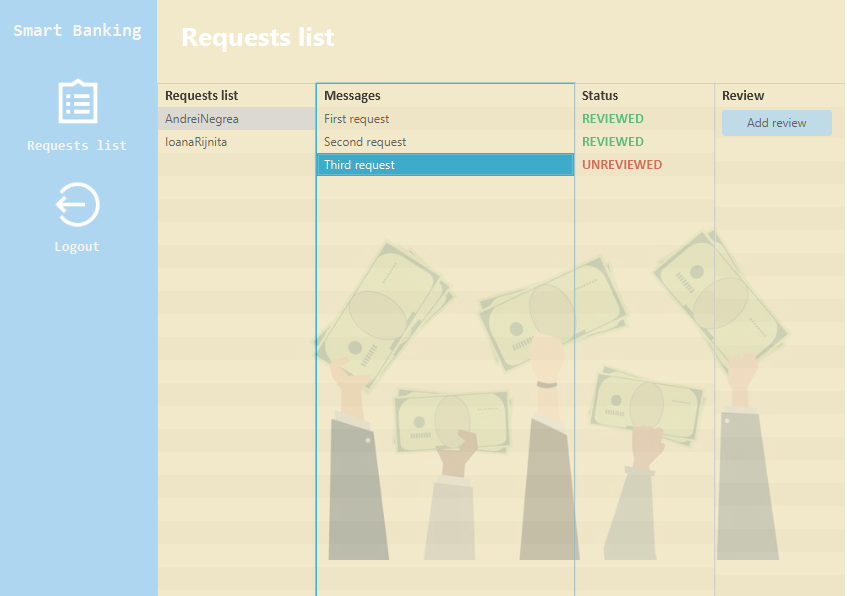
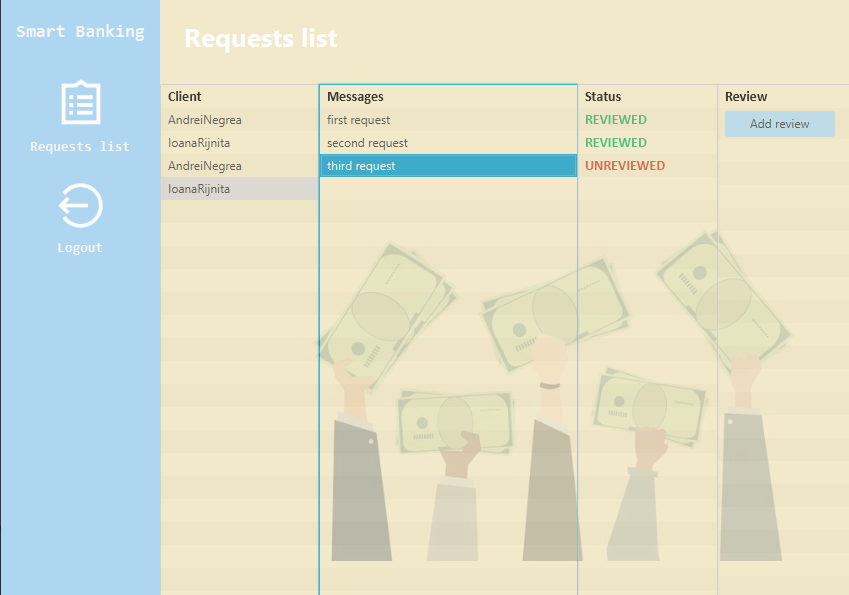
minor text changes & images for readme file/SB-31

diff --git a/src/main/java/smart/banking/controllers/ListofBankRequestsController.java b/src/main/java/smart/banking/controllers/ListofBankRequestsController.java
@@ -80,85 +80,85 @@ public class ListofBankRequestsController {
     }
 
     public void showMessagesStatusesAndReviews() {
-            messageS= "Messages";
-            statusS = "Status";
-            reviewS = "Review";
+        messageS= "Messages";
+        statusS = "Status";
+        reviewS = "Review";
 
-            Text text = new Text(30,80,messageS);
-            Font newFont = Font.font("Calibri", FontWeight.BOLD, FontPosture.REGULAR,14);
-            text.setFill(Color.valueOf("#000000"));
-            text.setFont(newFont);
-            Text text1 = new Text(30,80, statusS);
-            Font newFont1 = Font.font("Calibri", FontWeight.BOLD, FontPosture.REGULAR,14);
-            text1.setFill(Color.valueOf("#000000"));
-            text1.setFont(newFont1);
-            Text text2 = new Text(30,80, reviewS);
-            Font newFont2 = Font.font("Calibri", FontWeight.BOLD, FontPosture.REGULAR,14);
-            text2.setFill(Color.valueOf("#000000"));
-            text2.setFont(newFont2);
-            messages.getItems().clear();
-            statusList.getItems().clear();
-            reviewList.getItems().clear();
-            messages.getItems().add(text);
-            statusList.getItems().add(text1);
-            reviewList.getItems().add(text2);
+        Text text = new Text(30,80,messageS);
+        Font newFont = Font.font("Calibri", FontWeight.BOLD, FontPosture.REGULAR,14);
+        text.setFill(Color.valueOf("#000000"));
+        text.setFont(newFont);
+        Text text1 = new Text(30,80, statusS);
+        Font newFont1 = Font.font("Calibri", FontWeight.BOLD, FontPosture.REGULAR,14);
+        text1.setFill(Color.valueOf("#000000"));
+        text1.setFont(newFont1);
+        Text text2 = new Text(30,80, reviewS);
+        Font newFont2 = Font.font("Calibri", FontWeight.BOLD, FontPosture.REGULAR,14);
+        text2.setFill(Color.valueOf("#000000"));
+        text2.setFont(newFont2);
+        messages.getItems().clear();
+        statusList.getItems().clear();
+        reviewList.getItems().clear();
+        messages.getItems().add(text);
+        statusList.getItems().add(text1);
+        reviewList.getItems().add(text2);
 
-                for (int i = 0; i < BankRepresentativeService.getClientsContor(LoginController.bankRepresentative); i++) {
-                    if (BankRepresentativeService.getBankRepresentative(LoginController.bankRepresentative).getClients()[i] == clientList.getSelectionModel().getSelectedItem()) {
-                        for (int j = 0; j < ClientService.getContorClient(); j++) {
-                            messages.getItems().clear();
-                            messages.getItems().add(text);
-                            statusList.getItems().clear();
-                            statusList.getItems().add(text1);
-                            reviewList.getItems().clear();
-                            reviewList.getItems().add(text2);
-                            for (int k = 0; k < ClientService.getClient(clientList.getSelectionModel().getSelectedItem().toString()).getContor(); k++) {
-                                if (ClientService.getClient(clientList.getSelectionModel().getSelectedItem().toString()).getMessages()[k] == null || ClientService.getClient(clientList.getSelectionModel().getSelectedItem().toString()).getMessages()[k].isEmpty()) {
-                                    messages.getItems().add("Empty request");
-                                } else {
-                                    messages.getItems().add(ClientService.getClient(clientList.getSelectionModel().getSelectedItem().toString()).getMessages()[k]);
-                                }
-                            }
-                            for (int l = 0; l < ClientService.getClient(clientList.getSelectionModel().getSelectedItem().toString()).getStatusContor(); l++) {
-                                if (ClientService.getClient(clientList.getSelectionModel().getSelectedItem().toString()).getStatusReview()[l] == null) {
-                                    String statuses = "UNREVIEWED";
-                                    Text text3 = new Text(30,80, statuses);
-                                    Font newFont3 = Font.font("Calibri", FontWeight.BOLD, FontPosture.REGULAR,14);
-                                    text3.setFill(Color.valueOf("#CB4335"));
-                                    text3.setFont(newFont3);
-                                    statusList.getItems().add(text3);
-                                } else if (ClientService.getClient(clientList.getSelectionModel().getSelectedItem().toString()).getStatusReview()[l].equals("Accepted")) {
-                                    String statuses = "REVIEWED";
-                                    Text text3 = new Text(30,80, statuses);
-                                    Font newFont3 = Font.font("Calibri", FontWeight.BOLD, FontPosture.REGULAR,14);
-                                    text3.setFill(Color.valueOf("#27AE60"));
-                                    text3.setFont(newFont3);
-                                    statusList.getItems().add(text3);
-                                } else if (ClientService.getClient(clientList.getSelectionModel().getSelectedItem().toString()).getStatusReview()[l].equals("Rejected")) {
-                                    String statuses = "REVIEWED";
-                                    Text text3 = new Text(30,80, statuses);
-                                    Font newFont3 = Font.font("Calibri", FontWeight.BOLD, FontPosture.REGULAR,14);
-                                    text3.setFill(Color.valueOf("#27AE60"));
-                                    text3.setFont(newFont3);
-                                    statusList.getItems().add(text3);
-                                } else {
-                                    String statuses = "UNREVIEWED";
-                                    Text text3 = new Text(30,80, statuses);
-                                    Font newFont3 = Font.font("Calibri", FontWeight.BOLD, FontPosture.REGULAR,14);
-                                    text3.setFill(Color.valueOf("#27AE60"));
-                                    text3.setFont(newFont3);
-                                    statusList.getItems().add(text3);
+        for (int i = 0; i < BankRepresentativeService.getClientsContor(LoginController.bankRepresentative); i++) {
+            if (BankRepresentativeService.getBankRepresentative(LoginController.bankRepresentative).getClients()[i] == clientList.getSelectionModel().getSelectedItem()) {
+                for (int j = 0; j < ClientService.getContorClient(); j++) {
+                    messages.getItems().clear();
+                    messages.getItems().add(text);
+                    statusList.getItems().clear();
+                    statusList.getItems().add(text1);
+                    reviewList.getItems().clear();
+                    reviewList.getItems().add(text2);
+                    for (int k = 0; k < ClientService.getClient(clientList.getSelectionModel().getSelectedItem().toString()).getContor(); k++) {
+                        if (ClientService.getClient(clientList.getSelectionModel().getSelectedItem().toString()).getMessages()[k] == null || ClientService.getClient(clientList.getSelectionModel().getSelectedItem().toString()).getMessages()[k].isEmpty()) {
+                            messages.getItems().add("Empty request");
+                        } else {
+                            messages.getItems().add(ClientService.getClient(clientList.getSelectionModel().getSelectedItem().toString()).getMessages()[k]);
+                        }
+                    }
+                    for (int l = 0; l < ClientService.getClient(clientList.getSelectionModel().getSelectedItem().toString()).getStatusContor(); l++) {
+                        if (ClientService.getClient(clientList.getSelectionModel().getSelectedItem().toString()).getStatusReview()[l] == null) {
+                            String statuses = "UNREVIEWED";
+                            Text text3 = new Text(30,80, statuses);
+                            Font newFont3 = Font.font("Calibri", FontWeight.BOLD, FontPosture.REGULAR,14);
+                            text3.setFill(Color.valueOf("#CB4335"));
+                            text3.setFont(newFont3);
+                            statusList.getItems().add(text3);
+                        } else if (ClientService.getClient(clientList.getSelectionModel().getSelectedItem().toString()).getStatusReview()[l].equals("Accepted")) {
+                            String statuses = "REVIEWED";
+                            Text text3 = new Text(30,80, statuses);
+                            Font newFont3 = Font.font("Calibri", FontWeight.BOLD, FontPosture.REGULAR,14);
+                            text3.setFill(Color.valueOf("#27AE60"));
+                            text3.setFont(newFont3);
+                            statusList.getItems().add(text3);
+                        } else if (ClientService.getClient(clientList.getSelectionModel().getSelectedItem().toString()).getStatusReview()[l].equals("Rejected")) {
+                            String statuses = "REVIEWED";
+                            Text text3 = new Text(30,80, statuses);
+                            Font newFont3 = Font.font("Calibri", FontWeight.BOLD, FontPosture.REGULAR,14);
+                            text3.setFill(Color.valueOf("#27AE60"));
+                            text3.setFont(newFont3);
+                            statusList.getItems().add(text3);
+                        } else {
+                            String statuses = "UNREVIEWED";
+                            Text text3 = new Text(30,80, statuses);
+                            Font newFont3 = Font.font("Calibri", FontWeight.BOLD, FontPosture.REGULAR,14);
+                            text3.setFill(Color.valueOf("#27AE60"));
+                            text3.setFont(newFont3);
+                            statusList.getItems().add(text3);
 
-                                }
-                            }
                         }
                     }
                 }
-            if (clientList.getSelectionModel().getSelectedItem().toString() == "" || clientList.getSelectionModel().getSelectedItem().toString() == "Client list") {
-                messages.getItems().clear();
-                statusList.getItems().clear();
-                reviewList.getItems().clear();
             }
+        }
+        if (clientList.getSelectionModel().getSelectedItem().toString() == "" || clientList.getSelectionModel().getSelectedItem().toString() == "Client list") {
+            messages.getItems().clear();
+            statusList.getItems().clear();
+            reviewList.getItems().clear();
+        }
     }
 
 
@@ -173,7 +173,7 @@ public class ListofBankRequestsController {
     }
 
     public void showClients() {
-        clientString = "Requests list";
+        clientString = "Client";
         Text text = new Text(30,80, clientString);
         Font newFont = Font.font("Calibri", FontWeight.BOLD, FontPosture.REGULAR,14);
         text.setFill(Color.valueOf("#000000"));

diff --git a/src/main/java/smart/banking/controllers/SeeTransactionsController.java b/src/main/java/smart/banking/controllers/SeeTransactionsController.java
@@ -45,7 +45,7 @@ public class SeeTransactionsController {
     }
 
     public void showTransactions() {
-        transactionString = "Transactions list";
+        transactionString = "Amount";
         Text text = new Text(30,80,transactionString);
         Font newFont = Font.font("Calibri", FontWeight.BOLD, FontPosture.REGULAR,14);
         text.setFill(Color.valueOf("#000000"));

diff --git a/src/main/java/smart/banking/controllers/ListofClientRequestsController.java b/src/main/java/smart/banking/controllers/ListofClientRequestsController.java
@@ -39,7 +39,7 @@ public class ListofClientRequestsController {
     }
 
     public void showMessages() {
-        messageString = "Requests list";
+        messageString = "Message";
         Text text = new Text(30,80,messageString);
         Font newFont = Font.font("Calibri", FontWeight.BOLD, FontPosture.REGULAR,14);
         text.setFill(Color.valueOf("#000000"));
